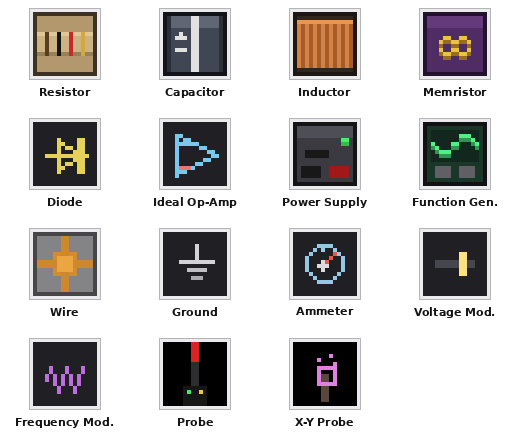
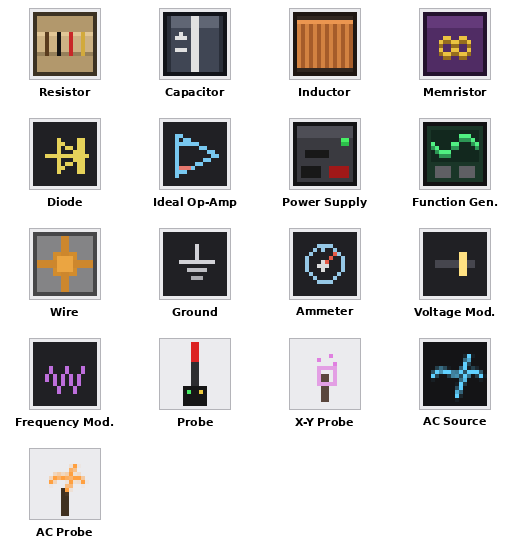
Fix AC probe on ammeter, add oscilloscope grids, bump 0.5.1
The AC (Bode-plot) probe always sampled voltage across the pinned element, but
an ideal ammeter is a 0V source (electrically a wire), so that voltage is
identically zero at every frequency by construction - pinning the AC probe on
one always showed a flat, meaningless trace. AcCircuit now retains each
source's solved branch current (mirroring the transient solver's existing
pattern), and the sweep reads an ammeter's current instead of its voltage.

Also adds a graticule (ScopeGrid) to all three oscilloscope HUDs, and
regenerates the component gallery figure to include the AC Source/AC Probe.

diff --git a/src/client/java/com/rpicos/circuitcraft/client/ScopeGrid.java b/src/client/java/com/rpicos/circuitcraft/client/ScopeGrid.java
@@ -1,0 +1,28 @@
+package com.rpicos.circuitcraft.client;
+
+import net.minecraft.client.gui.GuiGraphicsExtractor;
+
+/** Shared graticule renderer for all three oscilloscope HUDs ({@link OscilloscopeHud},
+ *  {@link XyOscilloscopeHud}, {@link AcOscilloscopeHud}) - draws evenly spaced division lines
+ *  across a graph area, the way a real bench scope's screen is etched, so amplitude/time (or
+ *  frequency) can be judged by eye against a fixed reference instead of only the auto-scaled
+ *  extremes printed at the edges. Drawn before any trace/axis line so those remain the visually
+ *  dominant features on top of the graticule. */
+final class ScopeGrid {
+
+	static final int COLOR = 0xFF23262B;
+
+	private ScopeGrid() {
+	}
+
+	static void draw(GuiGraphicsExtractor extractor, int x0, int y0, int x1, int y1, int cols, int rows) {
+		for (int c = 1; c < cols; c++) {
+			int x = x0 + (x1 - x0) * c / cols;
+			extractor.verticalLine(x, y0, y1, COLOR);
+		}
+		for (int r = 1; r < rows; r++) {
+			int y = y0 + (y1 - y0) * r / rows;
+			extractor.horizontalLine(x0, x1, y, COLOR);
+		}
+	}
+}

diff --git a/src/main/java/com/rpicos/circuitcraft/blockentity/AmmeterBlockEntity.java b/src/main/java/com/rpicos/circuitcraft/blockentity/AmmeterBlockEntity.java
@@ -4,6 +4,7 @@ import com.rpicos.circuitcraft.ModBlockEntities;
 import com.rpicos.circuitcraft.sim.AcCircuit;
 import com.rpicos.circuitcraft.sim.AcVoltageSource;
 import com.rpicos.circuitcraft.sim.Circuit;
+import com.rpicos.circuitcraft.sim.Complex;
 import com.rpicos.circuitcraft.sim.VoltageSource;
 import com.rpicos.circuitcraft.sim.Waveform;
 import net.minecraft.core.BlockPos;
@@ -14,6 +15,7 @@ import net.minecraft.world.level.block.state.BlockState;
 public class AmmeterBlockEntity extends ComponentBlockEntity implements AcStampable {
 
 	private VoltageSource live;
+	private AcVoltageSource liveAc;
 
 	public AmmeterBlockEntity(BlockPos pos, BlockState state) {
 		super(ModBlockEntities.AMMETER, pos, state);
@@ -34,13 +36,23 @@ public class AmmeterBlockEntity extends ComponentBlockEntity implements AcStampa
 	@Override
 	public void addToAcCircuit(AcCircuit circuit, int nodeA, int nodeB) {
 		// Still a 0V source in AC, exactly as in the transient case - an ideal ammeter is already
-		// electrically a wire, so there's no separate "silenced" case to handle here.
-		circuit.add(AcVoltageSource.zero(nodeA, nodeB));
+		// electrically a wire, so there's no separate "silenced" case to handle here. Kept as a
+		// field (mirroring `live` above) so acCurrent() can read its solved branch current back
+		// after the caller's AcCircuit#solve - the voltage across an ideal ammeter is identically
+		// zero at every frequency by construction, so an AC probe pinned on it must read current,
+		// not voltage, or it would always show a flat, meaningless trace.
+		liveAc = AcVoltageSource.zero(nodeA, nodeB);
+		circuit.add(liveAc);
 	}
 
 	@Override
 	public double probeCurrent() {
 		return live == null ? 0 : live.current();
+	}
+
+	/** The AC probe's counterpart to {@link #probeCurrent()} - see {@link #addToAcCircuit}. */
+	public Complex acCurrent() {
+		return liveAc == null ? Complex.ZERO : liveAc.current();
 	}
 
 	@Override

diff --git a/src/main/java/com/rpicos/circuitcraft/sim/AcVoltageSource.java b/src/main/java/com/rpicos/circuitcraft/sim/AcVoltageSource.java
@@ -10,6 +10,7 @@ public final class AcVoltageSource {
 	private final Complex value;
 
 	int branchIndex = -1;
+	private Complex current = Complex.ZERO;
 
 	public AcVoltageSource(int a, int b, Complex value) {
 		this.a = a;
@@ -31,5 +32,16 @@ public final class AcVoltageSource {
 
 	public Complex value() {
 		return value;
+	}
+
+	void setSolvedCurrent(Complex current) {
+		this.current = current;
+	}
+
+	/** The branch current solved for this source at the most recent {@link AcCircuit#solve}, in
+	 *  the same a-to-b sense as {@link com.rpicos.circuitcraft.sim.VoltageSource#current()}. Zero
+	 *  until the first solve. */
+	public Complex current() {
+		return current;
 	}
 }

diff --git a/src/main/java/com/rpicos/circuitcraft/network/CircuitNetworkManager.java b/src/main/java/com/rpicos/circuitcraft/network/CircuitNetworkManager.java
@@ -3,6 +3,7 @@ package com.rpicos.circuitcraft.network;
 import com.rpicos.circuitcraft.CircuitCraft;
 import com.rpicos.circuitcraft.blockentity.AcSourceBlockEntity;
 import com.rpicos.circuitcraft.blockentity.AcStampable;
+import com.rpicos.circuitcraft.blockentity.AmmeterBlockEntity;
 import com.rpicos.circuitcraft.blockentity.ComponentBlockEntity;
 import com.rpicos.circuitcraft.blockentity.GroundBlockEntity;
 import com.rpicos.circuitcraft.blockentity.NetworkBlockEntity;
@@ -284,7 +285,17 @@ public class CircuitNetworkManager {
 		return new AcSweepResult(freqs, mags, phases, null);
 	}
 
+	/** Returns whatever quantity an AC-probed signal point should be judged against the source
+	 *  amplitude: normally that's the small-signal voltage across the pinned element, but an ideal
+	 *  ammeter is electrically a wire, so the voltage across it is identically zero at every
+	 *  frequency by construction - probing one for voltage would always show a flat, meaningless
+	 *  trace. Its branch current (see {@link AmmeterBlockEntity#acCurrent}) is used instead, which
+	 *  makes the resulting ratio a transadmittance rather than a unitless gain, exactly as pinning
+	 *  the regular (transient) probe on an ammeter already reads current instead of voltage. */
 	private static Complex readAcVoltage(BlockPos pos, NetworkBlockEntity entity, NodeAssignment assignment, AcCircuit acCircuit) {
+		if (entity instanceof AmmeterBlockEntity ammeter) {
+			return ammeter.acCurrent();
+		}
 		if (entity instanceof OpAmpBlockEntity opAmp) {
 			int nodeOut = assignment.nodeIdByKey().get(new NodeKey(pos, opAmp.outputFace()));
 			return acCircuit.getVoltage(nodeOut);

diff --git a/latex/sections/04_architecture.tex b/latex/sections/04_architecture.tex
@@ -61,9 +61,8 @@ resolved indices that entity declared, whether two or three.
 \begin{figure}[htbp]
 \centering
 \includegraphics[width=0.85\textwidth]{figures/component_gallery.png}
-\caption{The fifteen blocks and items provided by the mod as of its initial release; the AC
-Source and AC Probe (Section~\ref{sec:ac-analysis}) were added in a later version and are not
-yet pictured here.}
+\caption{The seventeen blocks and items provided by the mod, including the AC Source and AC
+Probe (Section~\ref{sec:ac-analysis}) added in a later version.}
 \label{fig:gallery}
 \end{figure}
 

diff --git a/src/main/java/com/rpicos/circuitcraft/sim/AcCircuit.java b/src/main/java/com/rpicos/circuitcraft/sim/AcCircuit.java
@@ -132,6 +132,9 @@ public class AcCircuit {
 		for (int i = 0; i < n; i++) {
 			nodeVoltages[i + 1] = x[i];
 		}
+		for (AcVoltageSource s : sources) {
+			s.setSolvedCurrent(x[n + s.branchIndex]);
+		}
 	}
 
 	/** Complex Gaussian elimination with partial pivoting (by magnitude). */

diff --git a/src/client/java/com/rpicos/circuitcraft/client/AcOscilloscopeHud.java b/src/client/java/com/rpicos/circuitcraft/client/AcOscilloscopeHud.java
@@ -91,6 +91,7 @@ public class AcOscilloscopeHud implements HudElement {
 		}
 		int height = y1 - y0;
 
+		ScopeGrid.draw(extractor, x0, y0, x1, y1, 6, 4);
 		extractor.text(font, String.format("%.0f%s", max, unit), x0, y0, 0xFF9090A8, false);
 		extractor.text(font, String.format("%.0f%s", min, unit), x0, y1 - 8, 0xFF9090A8, false);
 

diff --git a/src/client/java/com/rpicos/circuitcraft/client/OscilloscopeHud.java b/src/client/java/com/rpicos/circuitcraft/client/OscilloscopeHud.java
@@ -80,6 +80,7 @@ public class OscilloscopeHud implements HudElement {
 		int graphHeight = graphY1 - graphY0;
 		int midY = graphY0 + graphHeight / 2;
 
+		ScopeGrid.draw(extractor, graphX0, graphY0, graphX1, graphY1, 4, 4);
 		extractor.horizontalLine(graphX0, graphX1, midY, 0xFF2E4A2E);
 
 		float maxAbs = 0.001f;

diff --git a/src/client/java/com/rpicos/circuitcraft/client/XyOscilloscopeHud.java b/src/client/java/com/rpicos/circuitcraft/client/XyOscilloscopeHud.java
@@ -66,6 +66,7 @@ public class XyOscilloscopeHud implements HudElement {
 		int plotCenterX = plotX0 + PLOT_SIZE / 2;
 		int plotCenterY = plotY0 + PLOT_SIZE / 2;
 
+		ScopeGrid.draw(extractor, plotX0, plotY0, plotX0 + PLOT_SIZE, plotY0 + PLOT_SIZE, 4, 4);
 		extractor.horizontalLine(plotX0, plotX0 + PLOT_SIZE, plotCenterY, 0xFF2E2E4A);
 		extractor.verticalLine(plotCenterX, plotY0, plotY0 + PLOT_SIZE, 0xFF2E2E4A);
 